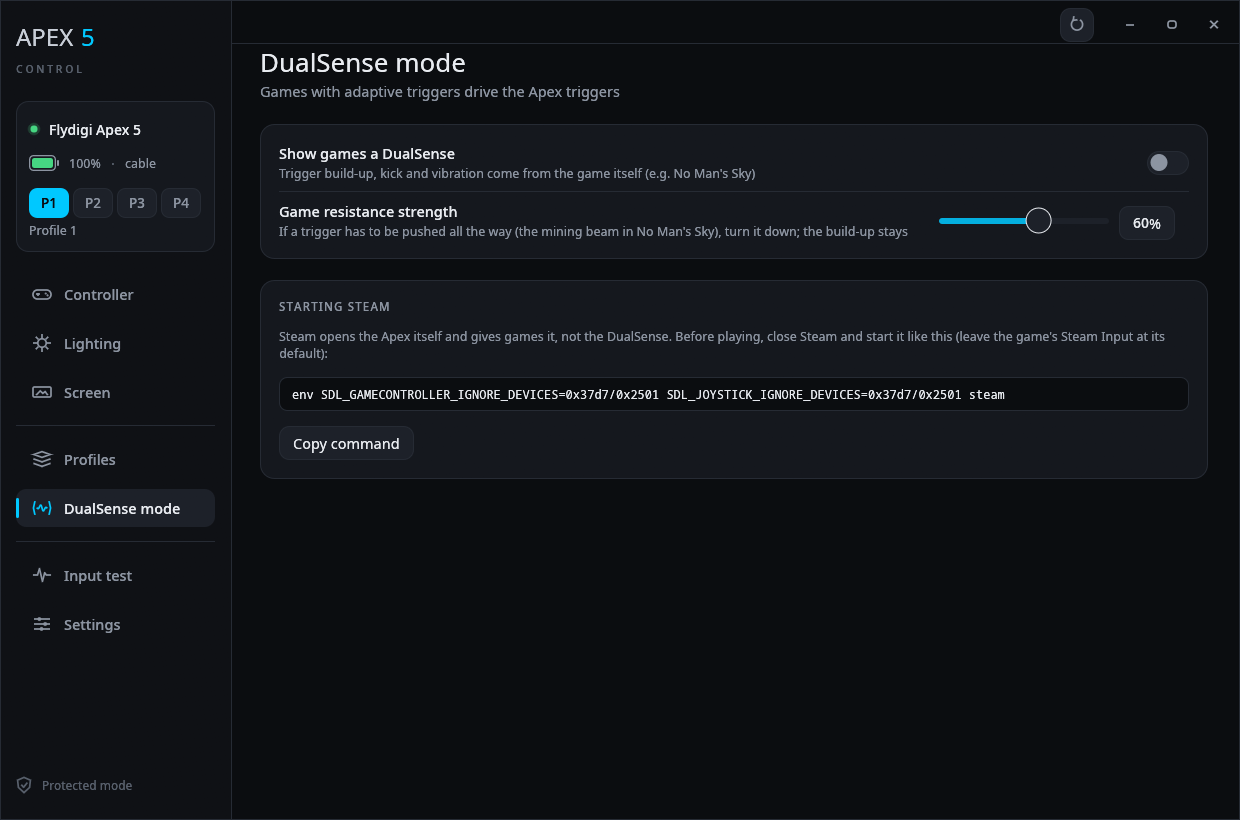
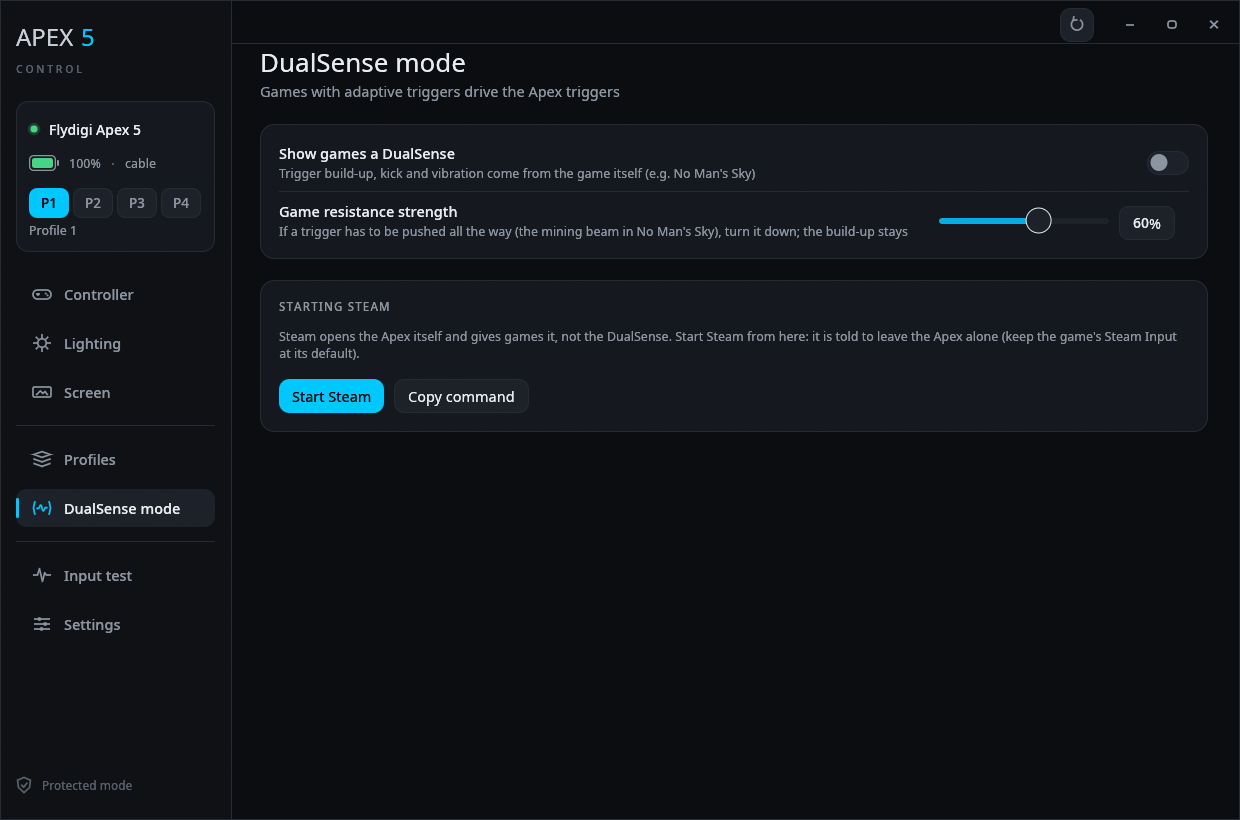
Screenshots of the DualSense page with the Steam button
A screenshot run no longer looks for a running Steam, so the page shows
the plain "Start Steam" state whatever runs on the machine taking it.

Changed region(s): [[0.2145, 0.4268, 0.7968, 0.5793], [0.5516, 0.3963, 0.95, 0.4268]]

diff --git a/src/ui/dualsense.rs b/src/ui/dualsense.rs
@@ -189,7 +189,10 @@ fn steam_hint(ui: &mut egui::Ui) {
         .is_none_or(|t| t.elapsed() > Duration::from_secs(1))
     {
         l.checked = Some(Instant::now());
-        l.running = steam_running();
+        // a screenshot run shows the page as before the first start
+        if std::env::var_os("APEX5_SCREENSHOTS").is_none() {
+            l.running = steam_running();
+        }
     }
     let (label, note, color) = match (&l.phase, l.running) {
         (Phase::Closing, _) => (t("Start Steam"), t("Closing Steam…").into(), theme::dim()),
